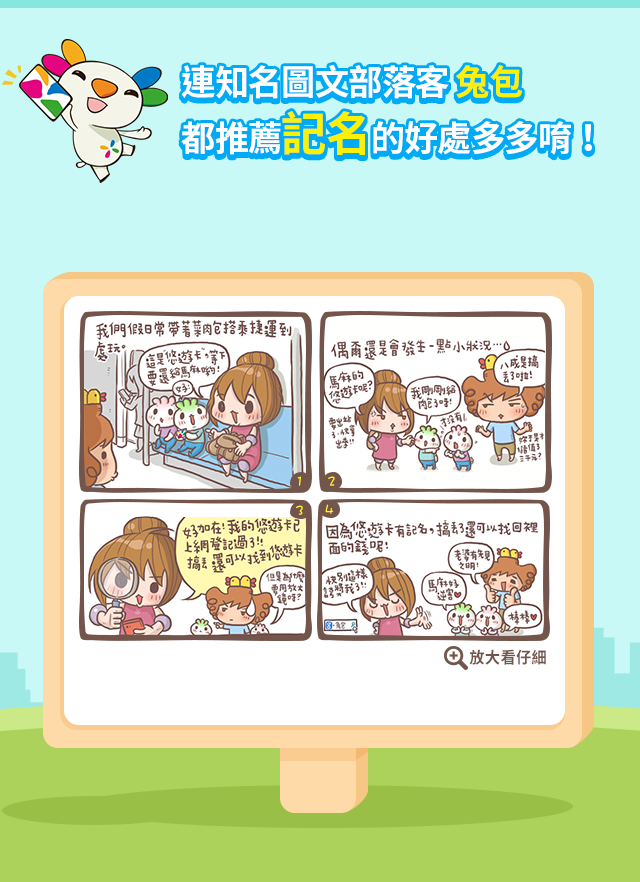
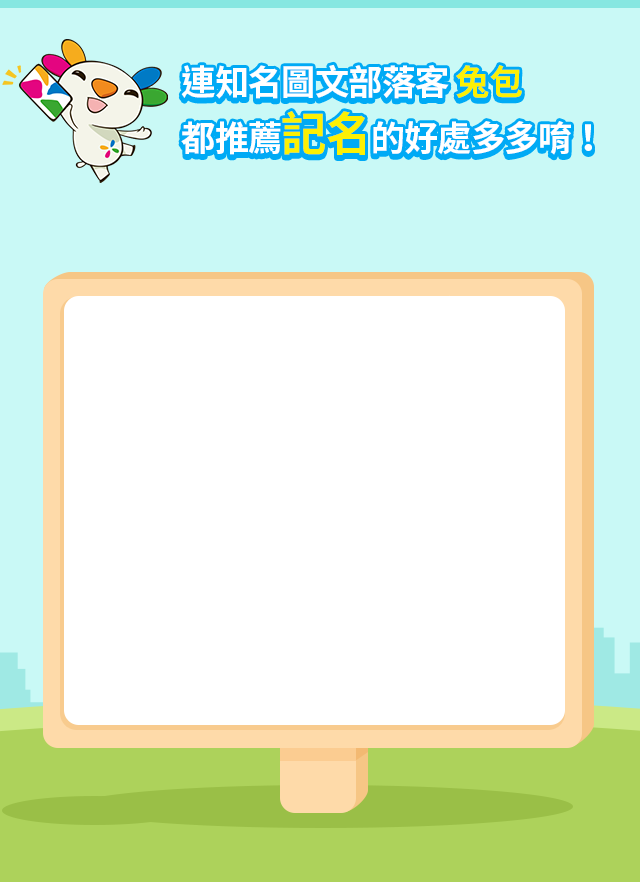
share

Changed region(s): [[0.125, 0.3367, 0.875, 0.7653]]

diff --git a/demo/EasyCard/blogger-share-test.html b/demo/EasyCard/blogger-share-test.html
@@ -1,0 +1,29 @@
+<!DOCTYPE html>
+<!--[if IE 6]><html class="ie6 lte9 lte8 lte7" lang="zh-tw"><![endif]-->
+<!--[if IE 8]><html class="ie8 lte9 lte8" lang="zh-tw"><![endif]-->
+<!--[if IE 9]><html class="ie9 lte9" lang="zh-tw"><![endif]-->
+<!--[if IE 7]><html class="ie7 lte9 lte8 lte7" lang="zh-tw"><![endif]-->
+<!--[if !(IE 6) | !(IE 7) | !(IE 8) | !(IE 9)  ]><!--><html  lang="zh-tw"><!--<![endif]-->
+    <head>
+        <meta charset="utf-8">
+        <meta content-language="zh-TW">
+        <meta http-equiv="X-UA-Compatible" content="IE=edge,chrome=1">
+        <meta name="description" content="">
+        <meta name="viewport" content="width=640,user-scalable=0">
+        <meta http-equiv="X-Frame-Options" content="deny">
+        <meta property="og:title" content="【掉卡不掉錢的聰明密技是…】"/>
+        <meta property="og:description" content="知名部落客 - 兔包馬麻教你如何聰明面對突發狀況！並力邀你一起來上網記名，還有月月抽萬元加值金之悠遊卡機會呢！"/>
+        <meta property="og:url" content="http://http://eric00826.github.io/demo/EasyCard/blogger-share-test.html?utm_source=fbshareback&utm_medium=fbshareback&utm_content=fbshareback"/>
+        <meta property="og:image" content="http://http://eric00826.github.io/demo/EasyCard/images/blogger-share.jpg"/>
+
+         <title>悠遊卡 掉卡不掉錢，記名享保障</title>
+
+        <script>
+          var _search = location.search;
+          location.href = 'http://http://eric00826.github.io/demo/EasyCard/' + location.search;
+        </script>
+    </head>
+    <body>
+
+    </body>
+</html>

diff --git a/demo/EasyCard/blogger-share.html b/demo/EasyCard/blogger-share.html
@@ -1,0 +1,29 @@
+<!DOCTYPE html>
+<!--[if IE 6]><html class="ie6 lte9 lte8 lte7" lang="zh-tw"><![endif]-->
+<!--[if IE 8]><html class="ie8 lte9 lte8" lang="zh-tw"><![endif]-->
+<!--[if IE 9]><html class="ie9 lte9" lang="zh-tw"><![endif]-->
+<!--[if IE 7]><html class="ie7 lte9 lte8 lte7" lang="zh-tw"><![endif]-->
+<!--[if !(IE 6) | !(IE 7) | !(IE 8) | !(IE 9)  ]><!--><html  lang="zh-tw"><!--<![endif]-->
+    <head>
+        <meta charset="utf-8">
+        <meta content-language="zh-TW">
+        <meta http-equiv="X-UA-Compatible" content="IE=edge,chrome=1">
+        <meta name="description" content="">
+        <meta name="viewport" content="width=640,user-scalable=0">
+        <meta http-equiv="X-Frame-Options" content="deny">
+        <meta property="og:title" content="【掉卡不掉錢的聰明密技是…】"/>
+        <meta property="og:description" content="知名部落客 - 兔包馬麻教你如何聰明面對突發狀況！並力邀你一起來上網記名，還有月月抽萬元加值金之悠遊卡機會呢！"/>
+        <meta property="og:url" content="http://event.easycard.com.tw/name/blogger-share.html?utm_source=fbshareback&utm_medium=fbshareback&utm_content=fbshareback"/>
+        <meta property="og:image" content="http://event.easycard.com.tw/name/images/blogger-share.jpg"/>
+
+         <title>悠遊卡 掉卡不掉錢，記名享保障</title>
+
+        <script>
+          var _search = location.search;
+          location.href = 'http://event.easycard.com.tw/name/' + location.search;
+        </script>
+    </head>
+    <body>
+
+    </body>
+</html>

diff --git a/demo/EasyCard/js/main.js b/demo/EasyCard/js/main.js
@@ -15,7 +15,7 @@ main = function (){
 
 		$('.fb-btn').click(function(event) {
 			/* Act on the event */
-			shareFB('http://eric00826.github.io/demo/EasyCard/');
+			shareFB('http://eric00826.github.io/demo/EasyCard/blogger-share-test.html');
 		});
 
 		TweenMax.set($('.blogger-box'),{autoAlpha:0});
